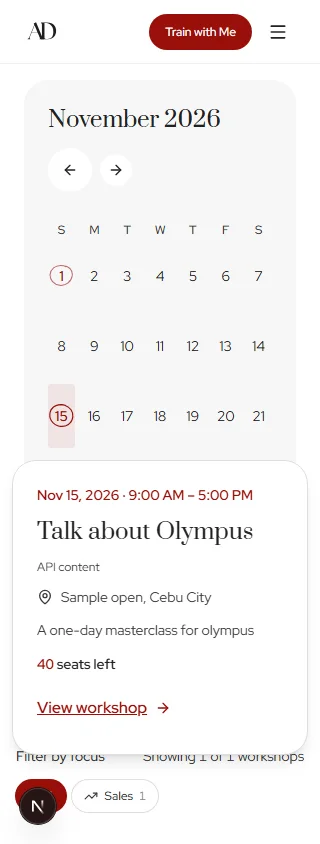
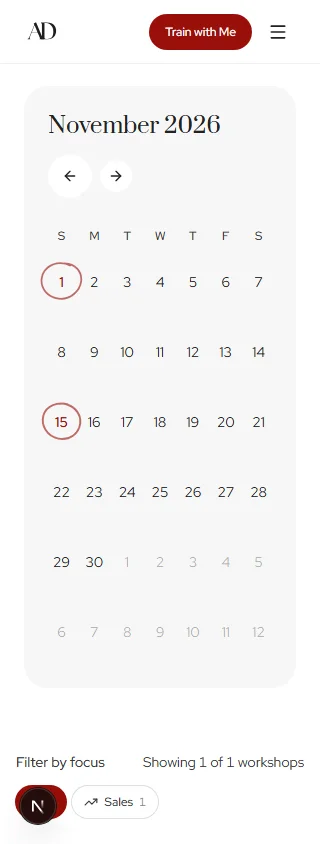
fix(calendar): restore original circles without edge clipping

diff --git a/tests/browser/workshop-availability.spec.ts b/tests/browser/workshop-availability.spec.ts
@@ -132,7 +132,7 @@ test("retired local sample returns not found", async ({ page }) => {
   expect(response?.status()).toBe(404)
 })
 
-test("@layout calendar circles fit their day cells at 320px", async ({
+test("@layout original calendar circles have room at both edges at 320px", async ({
   page,
 }) => {
   await page.setViewportSize({ width: 320, height: 844 })
@@ -140,10 +140,19 @@ test("@layout calendar circles fit their day cells at 320px", async ({
   const date = page.getByRole("button", { name: "20", exact: true })
   await date.scrollIntoViewIfNeeded()
   const bounds = await date.evaluate((cell) => {
-    const box = cell.getBoundingClientRect()
     const circle = cell.querySelector("svg")!.getBoundingClientRect()
-    return { left: circle.left - box.left, right: box.right - circle.right }
+    const grid = cell.parentElement!
+    const clip = grid.parentElement!.getBoundingClientRect()
+    const first = grid.firstElementChild!.getBoundingClientRect()
+    const last = grid.lastElementChild!.getBoundingClientRect()
+    const radius = (circle.width * 1.1) / 2
+    return {
+      width: circle.width,
+      left: first.left + first.width / 2 - radius - clip.left,
+      right: clip.right - (last.left + last.width / 2 + radius),
+    }
   })
+  expect(bounds.width).toBeCloseTo(48, 0)
   expect(bounds.left).toBeGreaterThanOrEqual(-0.5)
   expect(bounds.right).toBeGreaterThanOrEqual(-0.5)
   expect(

diff --git a/src/app/_components/workshops-calendar.tsx b/src/app/_components/workshops-calendar.tsx
@@ -213,7 +213,7 @@ export function WorkshopsCalendar({
         ))}
       </div>
 
-      <div className="overflow-hidden">
+      <div className="-mx-4 overflow-hidden px-4">
         <AnimatePresence mode="popLayout" initial={false} custom={direction}>
           <motion.div
             key={monthLabel}
@@ -269,7 +269,7 @@ export function WorkshopsCalendar({
                     >
                       <HandDrawnCircle
                         seed={cell.date.getDate()}
-                        className="text-brand/60 group-hover:text-brand group-focus-visible:text-brand top-1/2 left-1/2 aspect-square h-auto w-full max-w-12 -translate-x-1/2 -translate-y-1/2 transition-[color,scale] duration-200 group-hover:scale-110 group-focus-visible:scale-110 motion-reduce:transition-none sm:size-14 sm:max-w-none lg:size-16"
+                        className="text-brand/60 group-hover:text-brand group-focus-visible:text-brand top-1/2 left-1/2 size-12 -translate-x-1/2 -translate-y-1/2 transition-[color,scale] duration-200 group-hover:scale-110 group-focus-visible:scale-110 motion-reduce:transition-none sm:size-14 lg:size-16"
                       />
                       <span className="relative">{cell.date.getDate()}</span>
                     </button>

diff --git a/docs/website-core-pages-plan.md b/docs/website-core-pages-plan.md
@@ -470,7 +470,8 @@ branch `refactor/public-site-integration`, targeting `main`.
   layouts; metadata/OG use CMS content, missing images have neutral fallbacks,
   and failed reads offer retry. No local workshop samples or early-bird notes.
 - Availability: per-session `seatsLeft` appears on cards, calendar previews and
-  details. Closed sessions stay closed. Calendar circles fit 320px day cells.
+  details. Closed sessions stay closed. Original calendar circles have overflow
+  room at both edges at 320px.
 - CRM: workshop registrations and corporate inquiries use the supplied Portal
   contract: UUID retry keys, fresh Turnstile verification, omitted credentials,
   strict payloads and validated HTTP 202 acceptance. Confirmations require an
